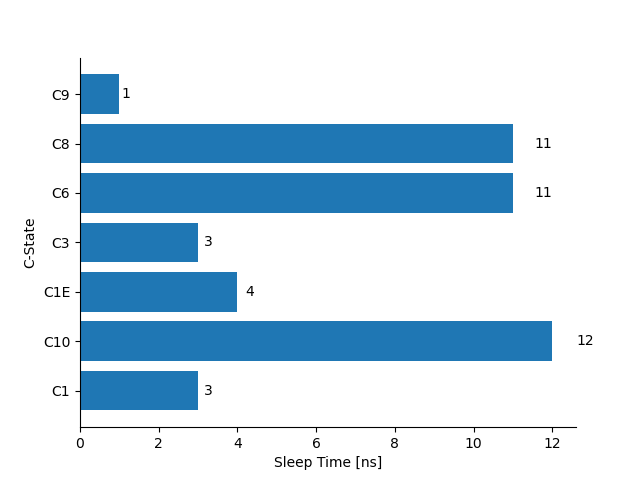
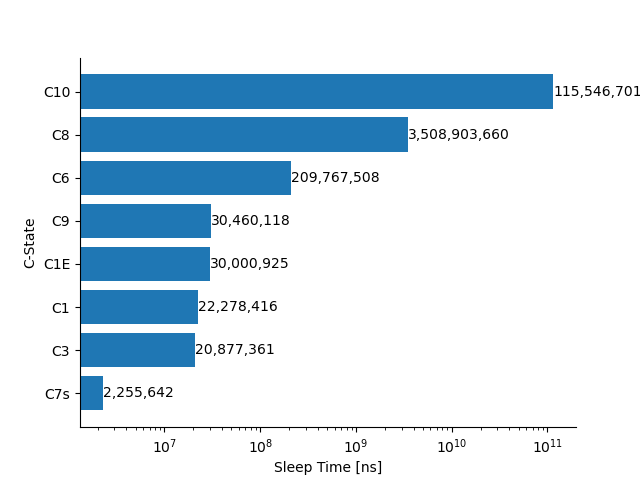
idle-governor: improved bar chart design

diff --git a/images/idle-governor/idle-governor-cstate-bar.py b/images/idle-governor/idle-governor-cstate-bar.py
@@ -11,19 +11,11 @@ file_path = 'idle-governor-cstate-bar.txt'
 df = pd.read_csv(file_path, delim_whitespace=True)
 
 # Drop unneccesarry columns
-df = df.drop(columns=['Time-Start'])
-df = df.drop(columns=['Delta[ns]'])
-df = df.drop(columns=['Miss'])
-df = df.drop(columns=['CPU'])
+df = df.drop(columns=['Time-Start', 'Delta[ns]', 'Miss', 'CPU'])
 
-# Group by C-State CPU and sum the sleeping times
-#grouped_data = df.groupby(['C-State', 'CPU']).sum('Sleep[ns]').reset_index()
 # Group by C-State and sum the sleeping times
 grouped_data = df.groupby(['C-State']).sum('Sleep[ns]').reset_index()
-print(grouped_data)
 
-# Creating labels for the bar chart by combining TimerType and Callback
-#grouped_data['Label'] = str(grouped_data['C-State']) + ": " + str(grouped_data['CPU'])
 # Creating labels for the bar chart by combining TimerType and Callback
 grouped_data['Label'] = str(grouped_data['C-State'])
 
@@ -32,19 +24,17 @@ sorted_data = grouped_data.sort_values(by='Sleep[ns]', ascending=False)
 
 # Creating a sorted 90% rotated bar chart with logarithmic scale
 fig, ax = plt.subplots()
-bars = ax.barh(grouped_data['C-State'], sorted_data['Sleep[ns]'], log=True)
+bars = ax.barh(sorted_data['C-State'], sorted_data['Sleep[ns]'], log=True)
 
-# Format axes
+# format axes
 ax.spines['top'].set_visible(False)
 ax.spines['right'].set_visible(False)
 
-for bar in bars:
-    width = bar.get_width()
-    label_x_pos = width + (width * 0.05)  # Adding 5% of the width as padding
-    ax.text(label_x_pos, bar.get_y() + bar.get_height() / 2, f'{int(width)}',
-            va='center', ha='left')
+for c in ax.containers:
+    ax.bar_label(c, fmt='{:,.0f}')
 
 plt.xlabel('Sleep Time [ns]')
 plt.ylabel('C-State')
+plt.gca().invert_yaxis()
 plt.savefig('idle-governor-cstate-bar.pdf')
 plt.savefig('idle-governor-cstate-bar.png')
